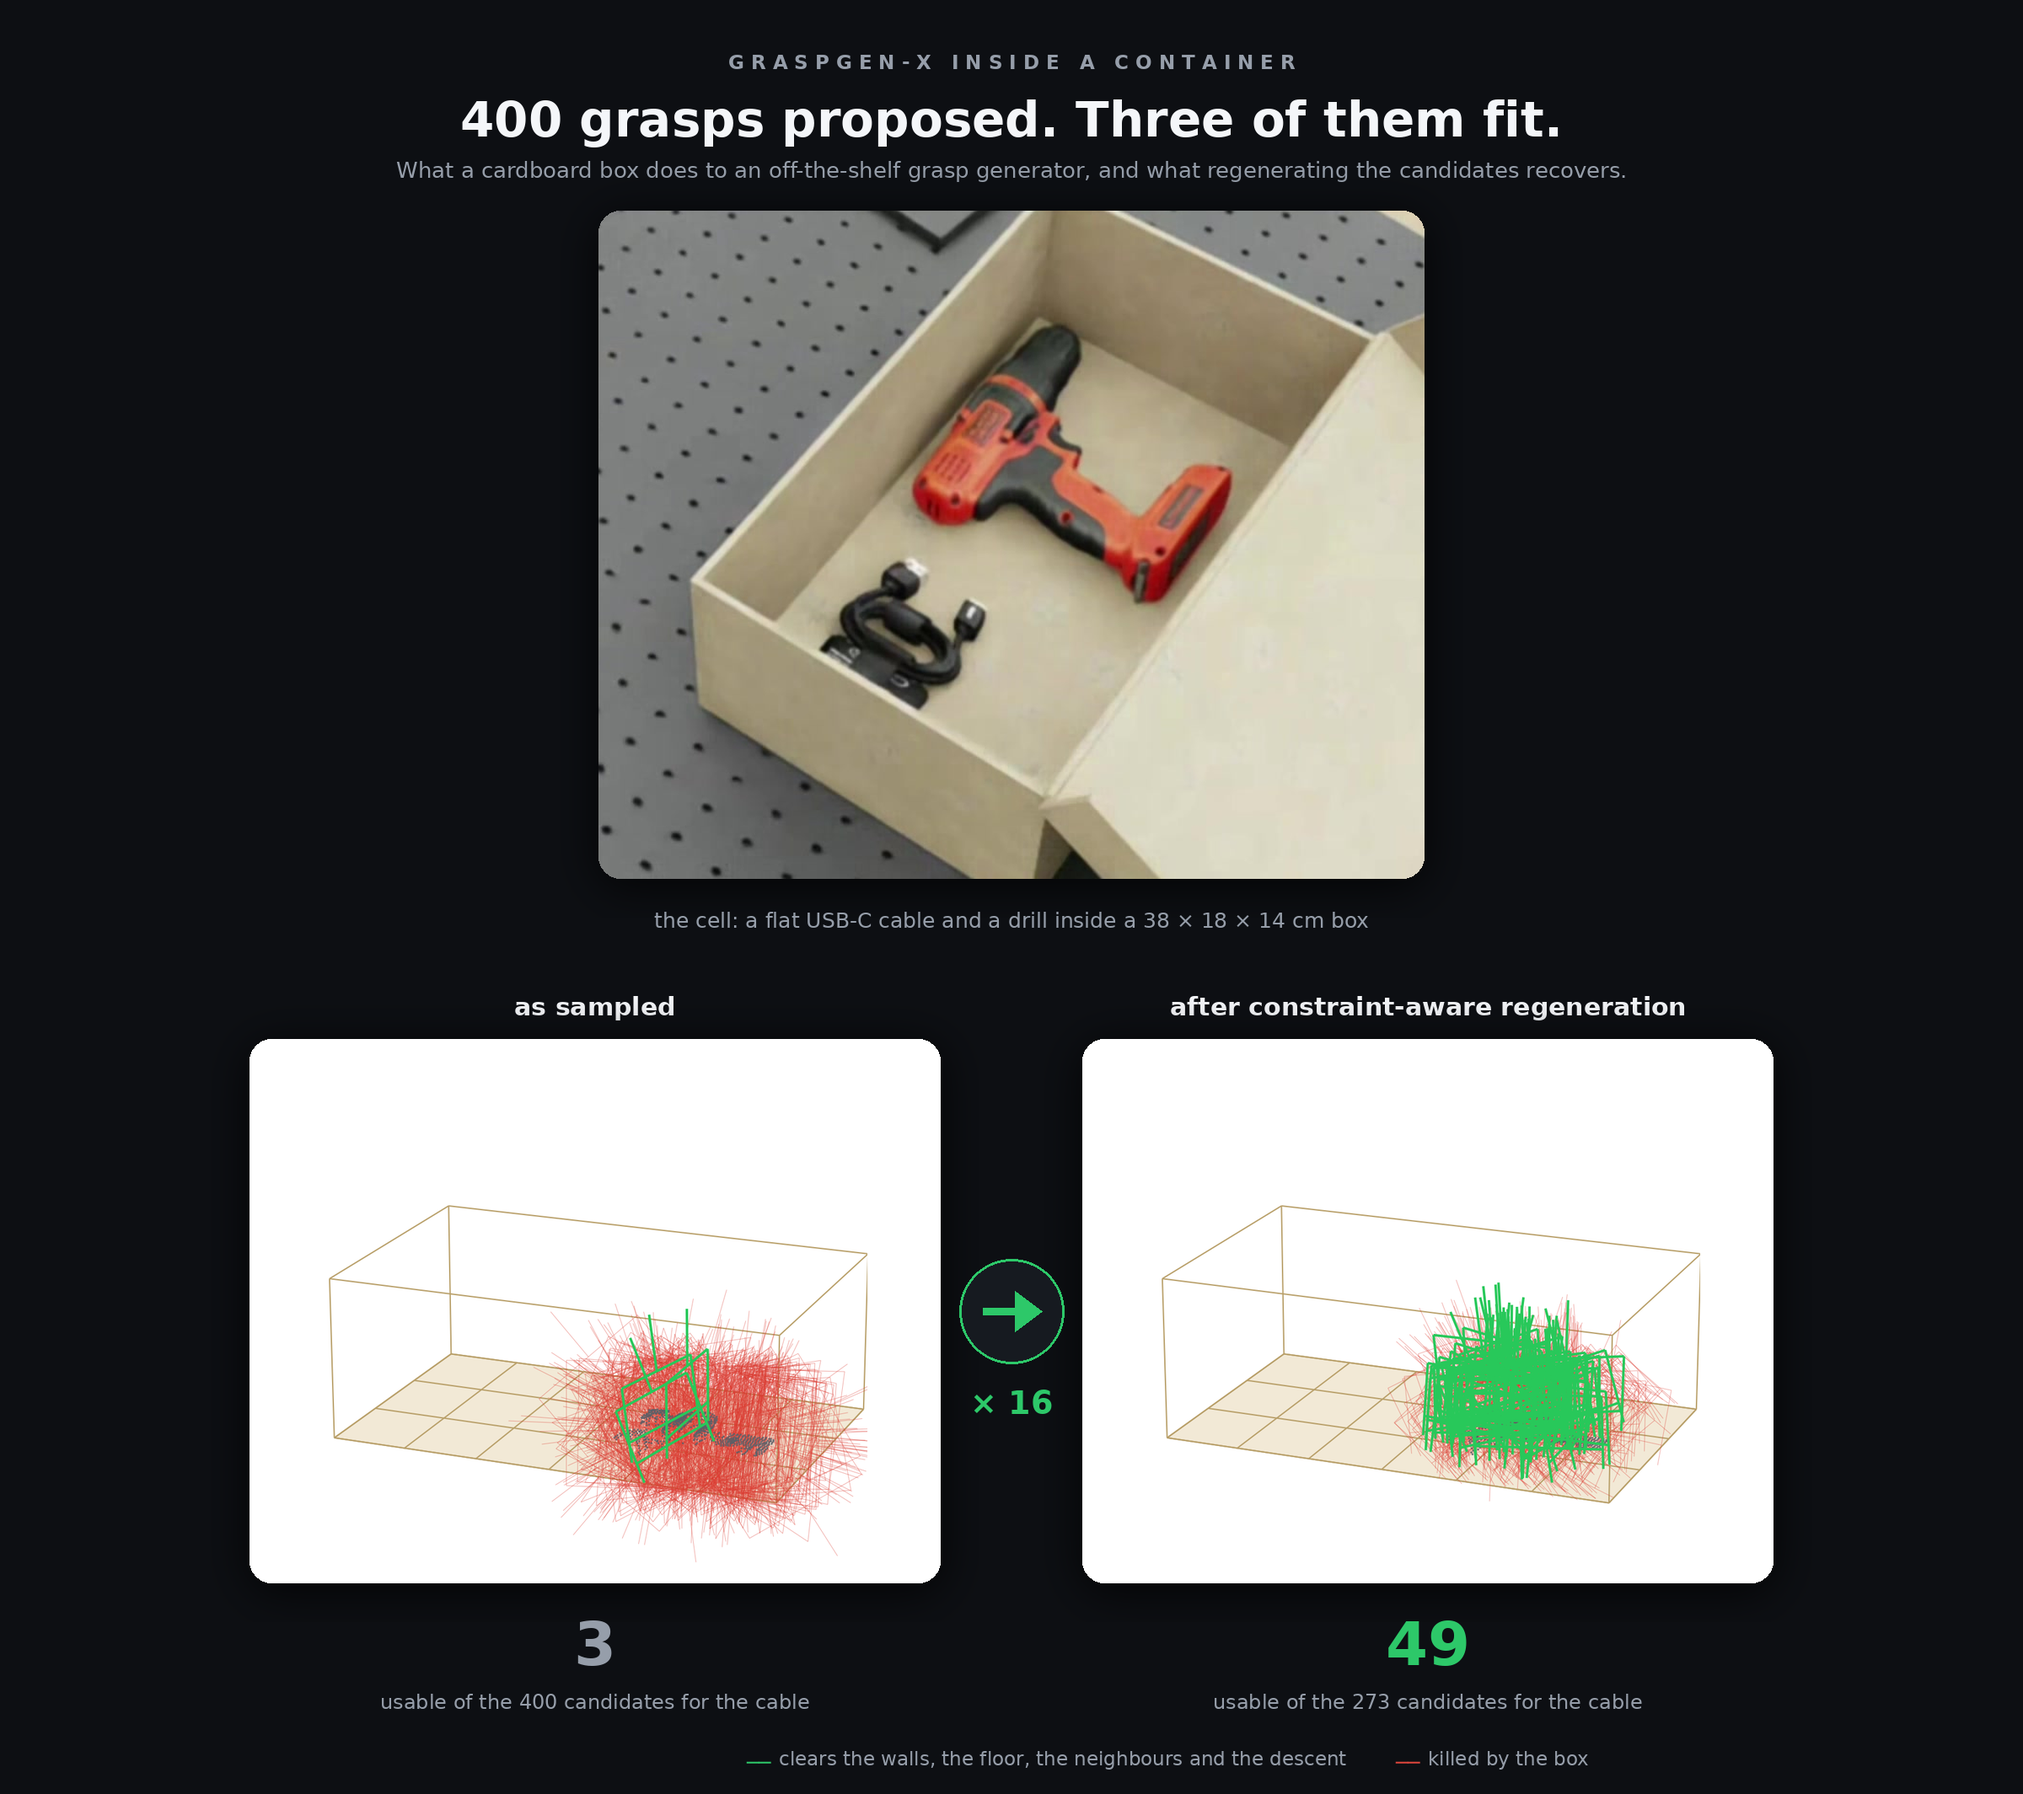
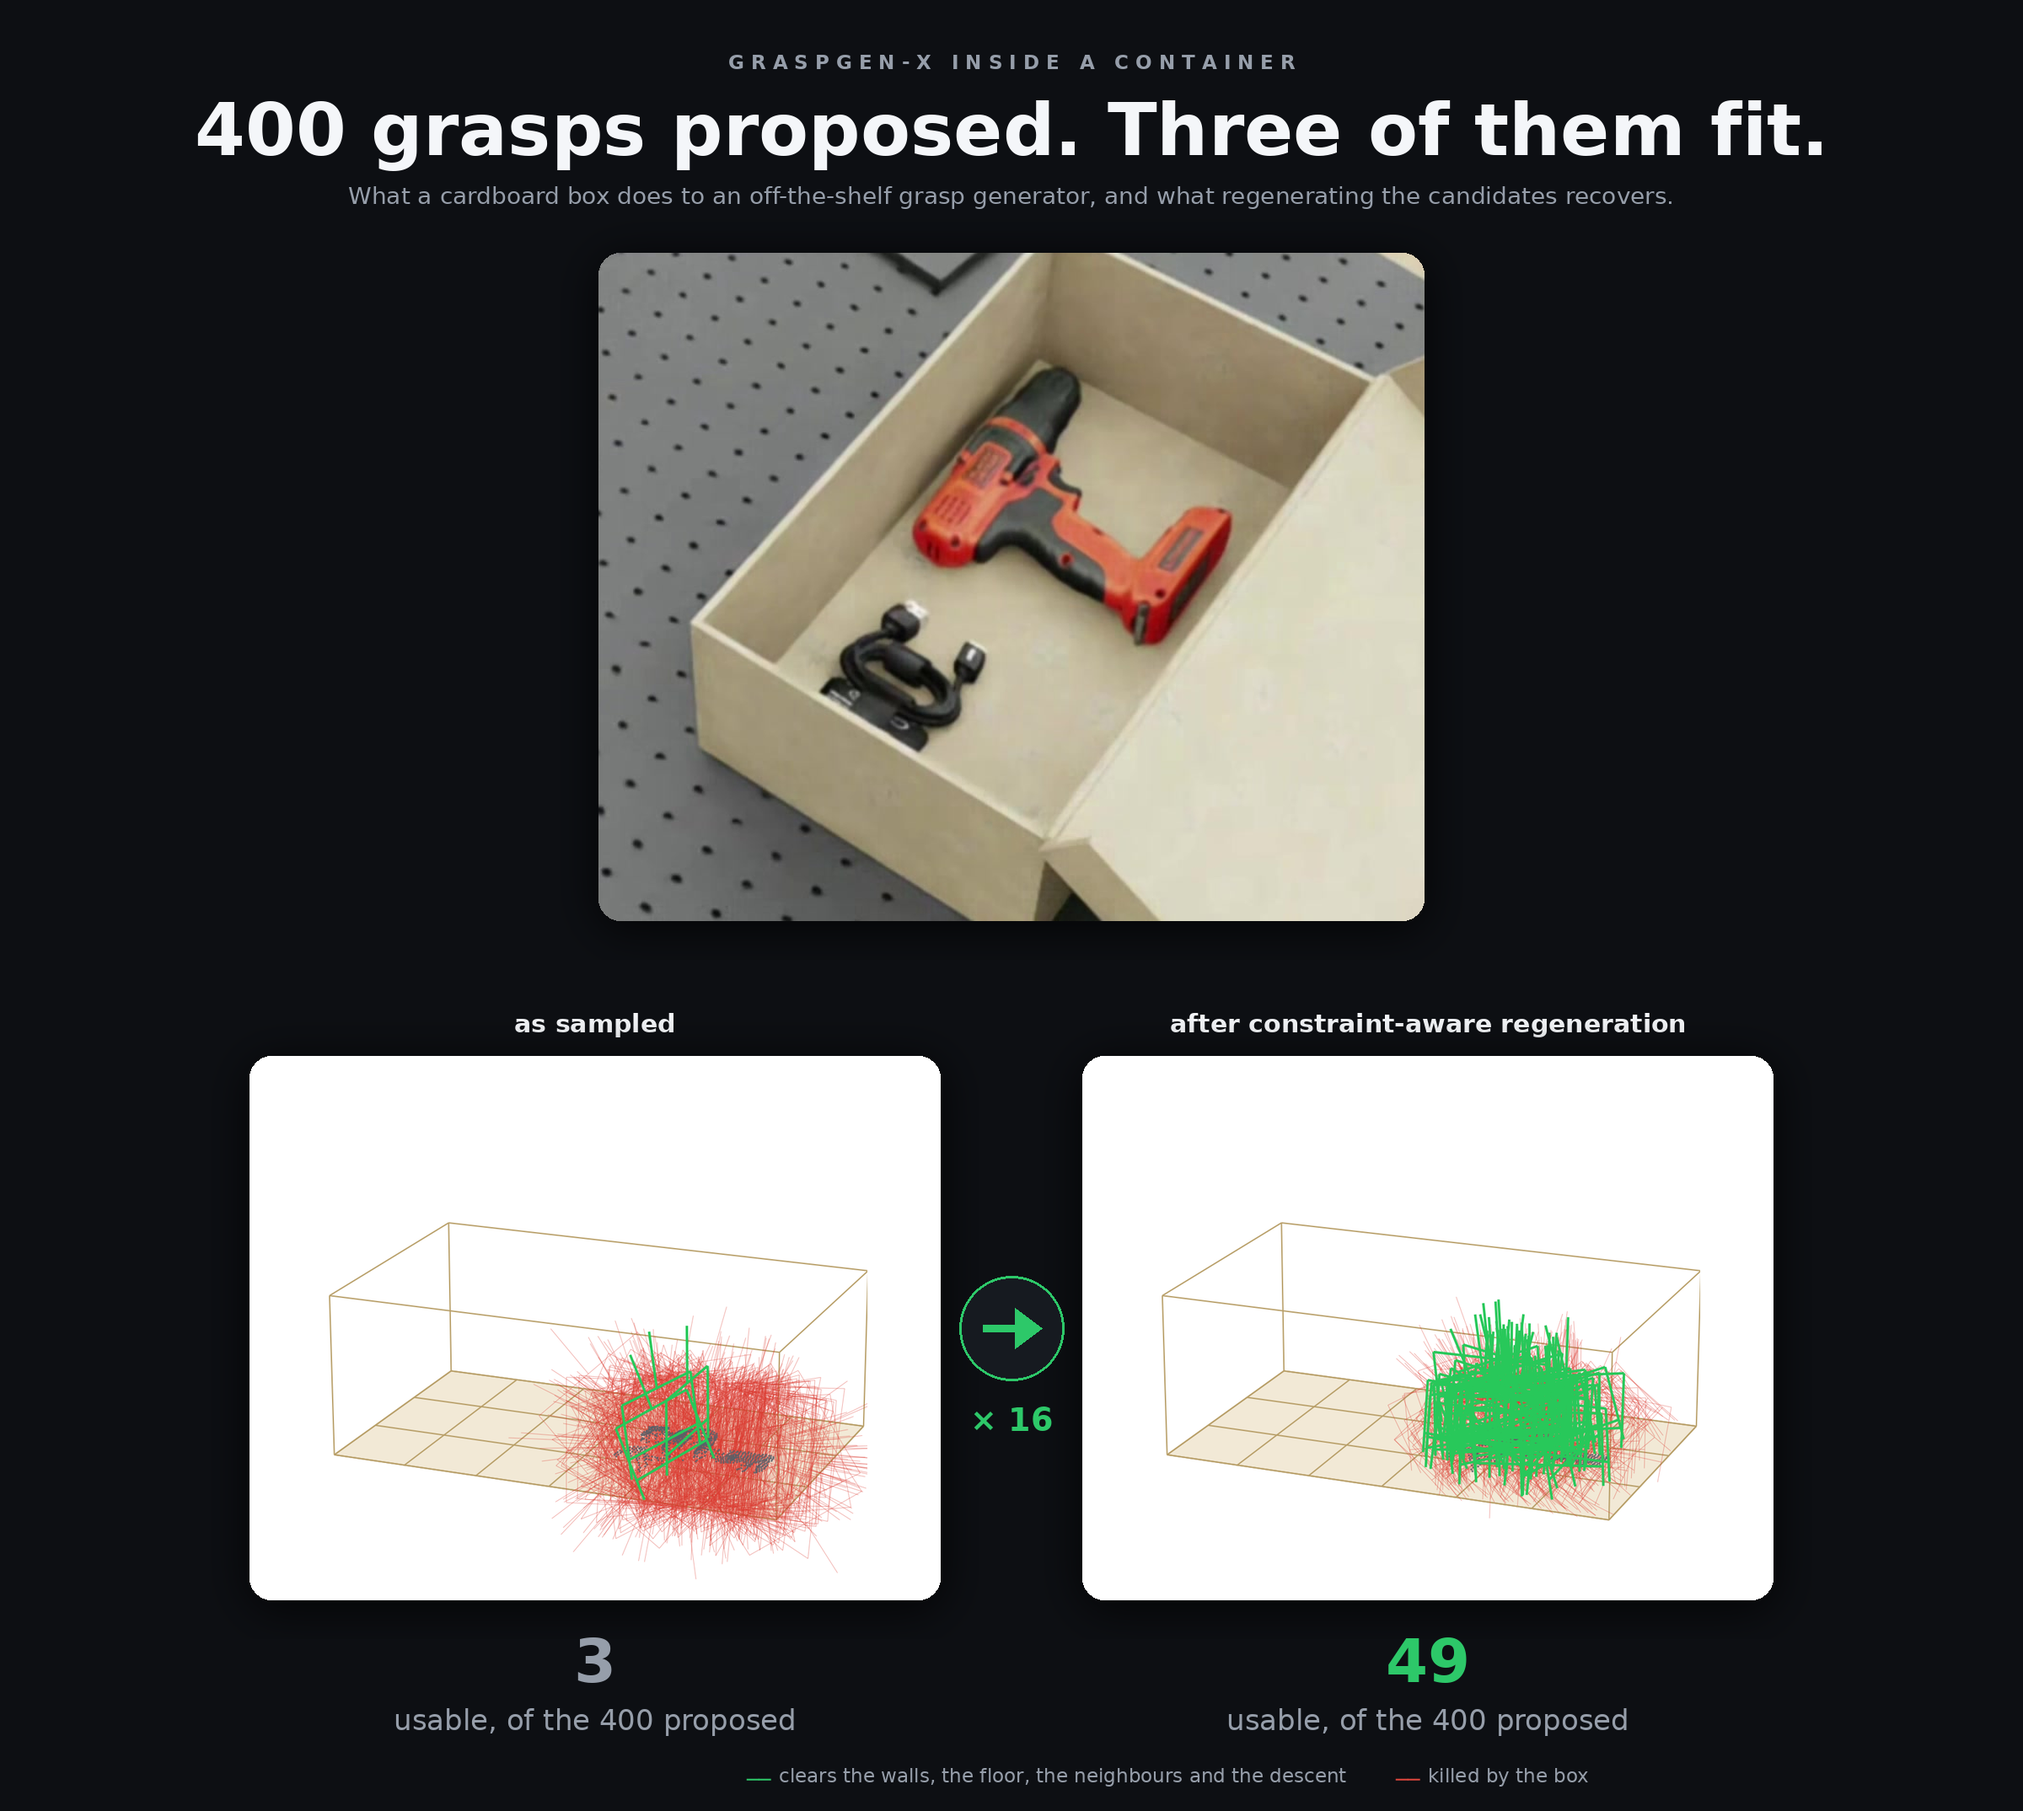
Cover: bigger headline, no photo caption, both counts against the 400 proposed

diff --git a/scripts/make_hero.py b/scripts/make_hero.py
@@ -61,21 +61,18 @@ def main() -> int:
     pw = 820
     cards = [(p.resize((pw, int(p.height * pw / p.width)), Image.LANCZOS), n, ok) for p, n, ok in ps]
     gap = 168
-    y_photo, y_panels = 250, 250 + photo.height + 190
+    y_photo, y_panels = 300, 300 + photo.height + 160
     H = y_panels + cards[0][0].height + 250
 
     canvas = Image.new("RGBA", (W, H), BG + (255,))
     d = ImageDraw.Draw(canvas)
     d.text((W // 2, 60), "G R A S P G E N - X   I N S I D E   A   C O N T A I N E R",
            font=font(23, True), fill=DIM, anchor="ma")
-    d.text((W // 2, 108), "400 grasps proposed. Three of them fit.", font=font(58, True), fill=INK, anchor="ma")
-    d.text((W // 2, 186), "What a cardboard box does to an off-the-shelf grasp generator, and what "
-                          "regenerating the candidates recovers.", font=font(26), fill=DIM, anchor="ma")
+    d.text((W // 2, 104), "400 grasps proposed. Three of them fit.", font=font(86, True), fill=INK, anchor="ma")
+    d.text((W // 2, 216), "What a cardboard box does to an off-the-shelf grasp generator, and what "
+                          "regenerating the candidates recovers.", font=font(28), fill=DIM, anchor="ma")
 
     place(canvas, photo, ((W - photo.width) // 2, y_photo))
-    d.text((W // 2, y_photo + photo.height + 34),
-           "the cell: a flat USB-C cable and a drill inside a 38 × 18 × 14 cm box",
-           font=font(25), fill=DIM, anchor="ma")
 
     x0 = (W - (2 * pw + gap)) // 2
     for i, (card, n, ok) in enumerate(cards):
@@ -85,8 +82,7 @@ def main() -> int:
         place(canvas, card, (x, y_panels))
         cx, by = x + pw // 2, y_panels + card.height
         d.text((cx, by + 30), f"{ok}", font=font(72, True), fill=GREEN if i else DIM, anchor="ma")
-        d.text((cx, by + 126), f"usable of the {n} candidates for the cable",
-               font=font(24), fill=DIM, anchor="ma")
+        d.text((cx, by + 122), "usable, of the 400 proposed", font=font(34), fill=DIM, anchor="ma")
 
     # the arrow between the two panels, with the factor it stands for
     ax_ = x0 + pw + gap // 2
